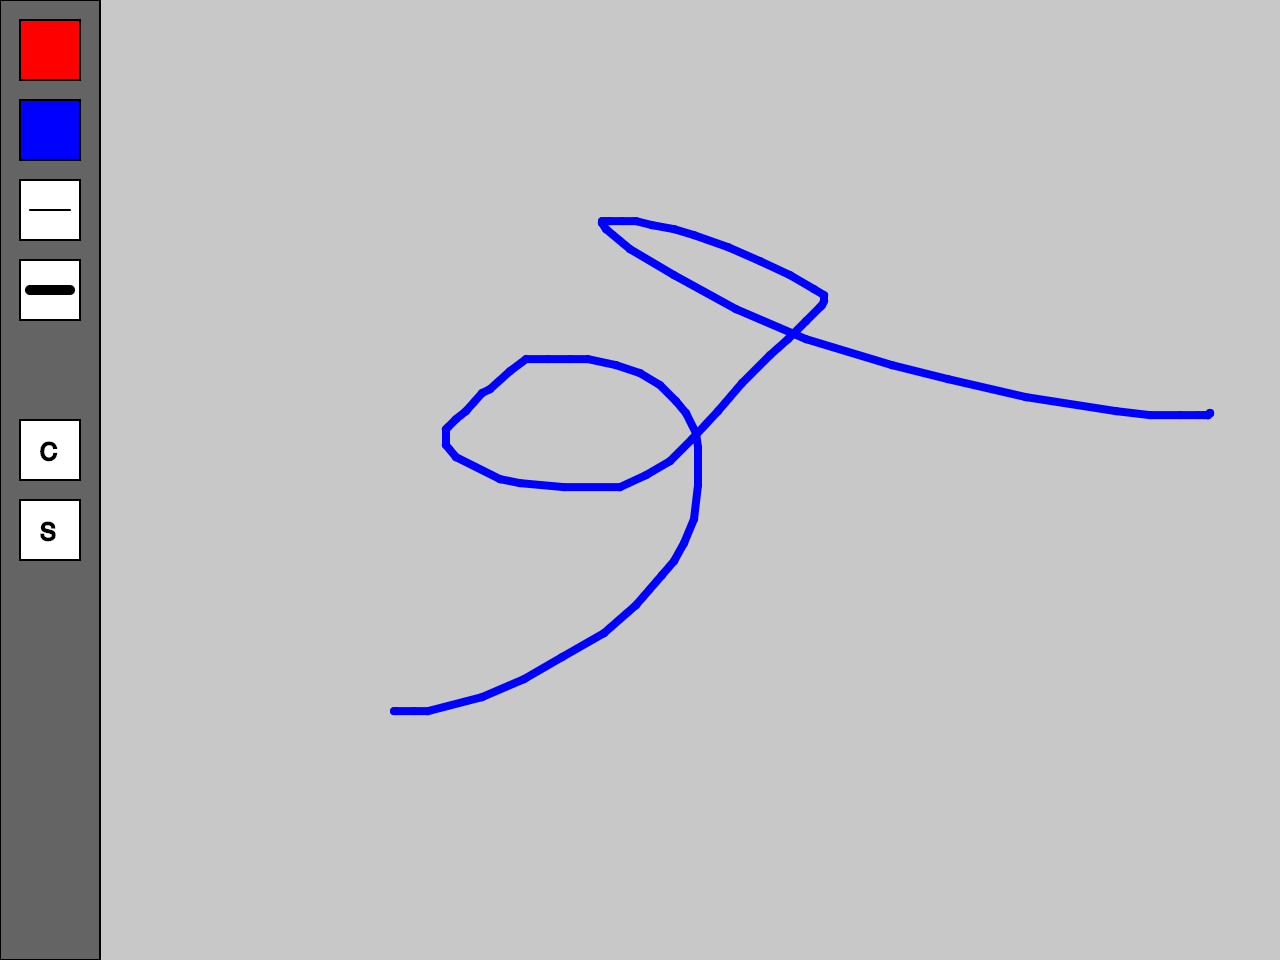
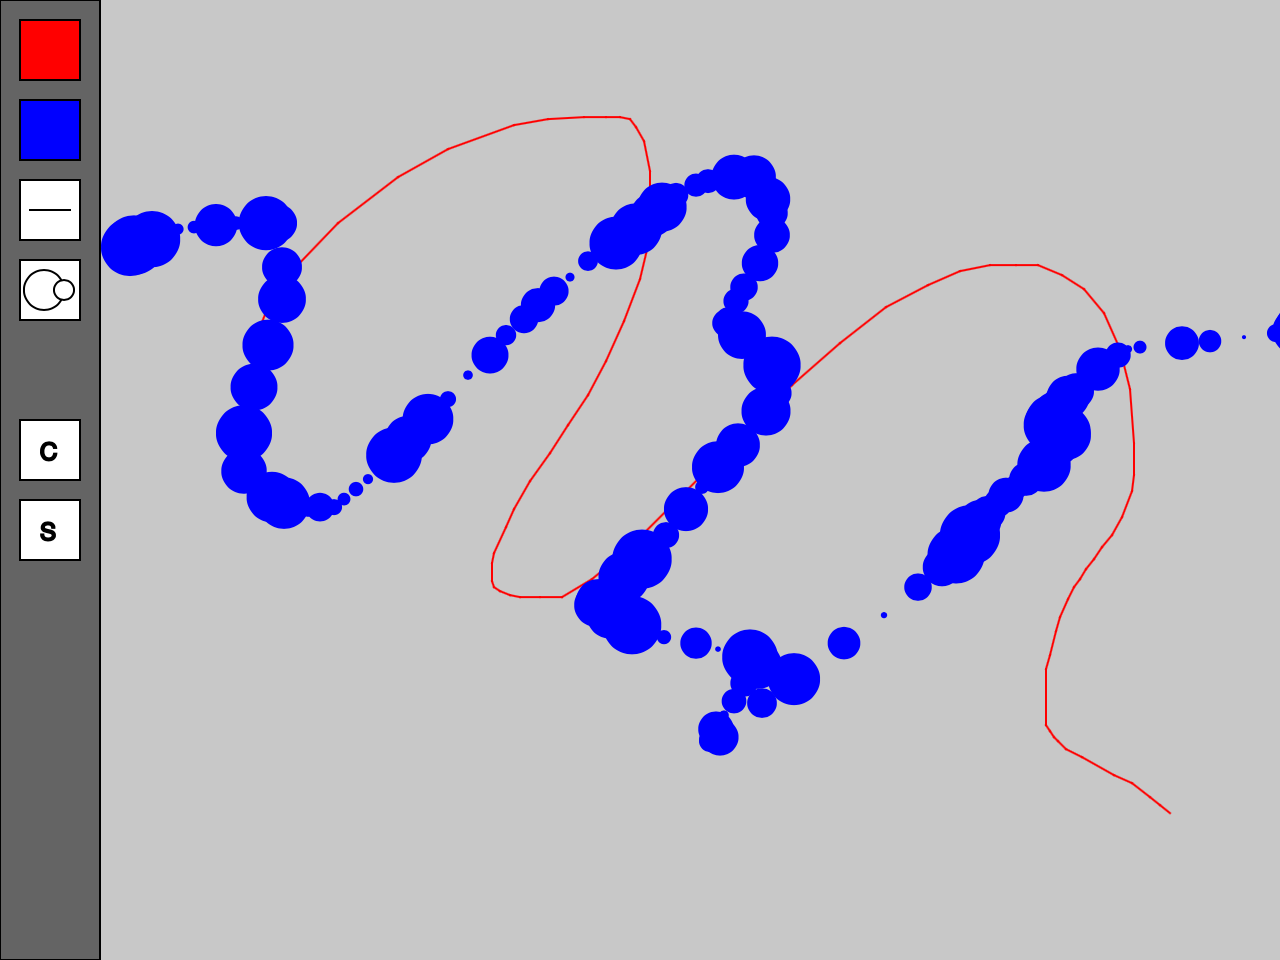
assignment updates

diff --git a/grading.py b/grading.py
@@ -47,7 +47,7 @@ except Exception as e:
 assignments = [assignment.replace('-', '_') for assignment in student['assignments'].values()]
 assignments = [list(eval(assignment)) for assignment in assignments]
 assignment_grade = sum(sum(assignments, [])) / (len(assignments) * 2 * 100)
-print(f"This sketch: {assignments[-1][0]} concept / {assignments[-1][0]} craft")
+print(f"This sketch: {assignments[-1][0]} concept / {assignments[-1][1]} craft")
 print(f"Sketches to date: {(assignment_grade * 100)}")
 
 
@@ -72,8 +72,8 @@ if 'absences' in student and student['absences'] is not None:
 if 'distractions' in student and student['distractions'] is not None:
     absence_factor += student['distractions'] * 0.0125
 absence_factor = min(absence_factor, .1)
-print(f"Absences and lateness/distractions: {absence_factor * 100}")
+print(f"Absences and lateness/distractions: -{absence_factor * 100}")
 final_grade = raw_grade - absence_factor
 final_grade *= 100
 
-print(f"Course: {final_grade}")
+print(f"Course to date: {final_grade}")

diff --git a/assignments/05_expressive_interface/description.md b/assignments/05_expressive_interface/description.md
@@ -1,8 +1,11 @@
 # Sketch #5: Expressive Interface
 
-When we interact with a computer, we do so through a software interface. The files and folders of the operating system, the prompt of a text-based terminal, the links of a webpage, and the tool palette and working space of a graphics program—in all of these examples, input from the keyboard and mouse are translated into meaningful actions. Designing an interface is a creative act unto itself, and as artists, we can use code to make the tools that we need to express our ideas.
+When we interact with a computer, we do so through a software interface. The files and folders of the operating system, the prompt of a text-based terminal, the links of a webpage, and the tool palette and working space of a graphics program—in all of these examples, input from the keyboard and mouse are translated into meaningful actions. Though we take many interfaces for granted, interfaces reflect the biases of those who made them. Furthermore, designing an interface is a creative act unto itself, and one that is central to digital media artists who use code to build their own tools.
 
-For this sketch, you will create a software drawing interface using p5. To get started, think about programs like [MacPaint](https://en.wikipedia.org/wiki/MacPaint), where the "user" can choose from multiple brushes with the mouse and use them to draw on the open canvas. However, your approach should reflect your own artist concept: maybe your interface is designed to paint trees, or looks like the cockpit of a spacecraft, or is made for people who are colorblind, to name some examples. How your brushes work and how someone using your interface selects them will be important artistic choices for you to make.
+For this sketch, you will create a software painting interface using p5. To get started, think about programs like [MacPaint](https://en.wikipedia.org/wiki/MacPaint), where the "user" can choose from multiple brushes with the mouse and use them to draw on the open canvas. However, your approach should reflect your own artistic theme. For example:
+    - an interface with a [street-art aesthetic](https://www.google.com/search?q=graffiti) and spray-paint brushes
+    - an interface from the "[future](https://www.google.com/search?q=future+interface)"    
+    - an interface for someone who is [color blind](https://en.wikipedia.org/wiki/Color_blindness), a [bird](https://en.wikipedia.org/wiki/Bird_vision#Light_perception), [underwater](http://thedivingblog.com/colors-underwater/) or who otherwise sees the world in ways not typically accounted for in interfaces
 
 Requirements:
 - Your interface must include at least 5 different "brushes" / ways of interacting
@@ -106,28 +109,36 @@ function mouseClicked() {
 The following `draw()` and `mouseClicked()` functions work together to make a basic interface:
 
 ```js
+// declare a variable to keep track of what brush we're using and it's color
+let brush
+let brush_color
 
-// declare a variable to keep track of what brush we're using
-let brush = "red_brush"
+function setup() {
 
-// declare a variable to keep track of the strokeWeight
-let current_stroke = 1
+    createCanvas(640, 480).parent('p5')
+    background(200)
+
+    // set default values here
+    brush = "pencil"
+    brush_color = color(255, 0, 0)  // set the initial brush color here
+
+}
 
 function draw() {
 
     if (mouseIsPressed) {
         cursor(CROSS)   // change the cursor to a cross while drawing
 
-        if (brush == "red_brush") {
-            stroke(255, 0, 0)
-            strokeWeight(current_stroke)
+        if (brush == "pencil") {
+            stroke(brush_color)
+            strokeWeight(1)
             line(pmouseX, pmouseY, mouseX, mouseY) // draw a line from the previous mouse position to the current mouse position
         }
 
-        if (brush == "blue_brush") {
-            stroke(0, 0, 255)
-            strokeWeight(current_stroke)
-            line(pmouseX, pmouseY, mouseX, mouseY)
+        if (brush == "dribbles") {
+            fill(brush_color)
+            noStroke()
+            circle(mouseX, mouseY, random(2, 30))
         }
 
     } else {
@@ -149,15 +160,15 @@ function draw() {
     fill(0, 0, 255)
     rect(10, 50, 30, 30)
 
-    // make an decrease strokeWeight button
+    // make the "pencil" button
     fill(255)
     rect(10, 90, 30, 30)
     line(15, 105, 35, 105)
 
-    // make an increase strokeWeight button
+    // make the "dribbles" button
     rect(10, 130, 30, 30)
-    strokeWeight(5)
-    line(15, 145, 35, 145)
+    circle(22, 145, 20)
+    circle(32, 145, 10)
 
     // make a clear button
     strokeWeight(1)
@@ -180,28 +191,26 @@ function mouseClicked() {
 
     // check if the mouse click was within the "red" button
     if (mouseX > 10 && mouseX < 40 && mouseY > 10 && mouseY < 40) {
-        print("Clicked red brush")
-        brush = "red_brush"
+        print("Clicked red button")
+        brush_color = color(255, 0, 0)
     }
 
     // check if the mouse click was within the "blue" button
     if (mouseX > 10 && mouseX < 40 && mouseY > 50 && mouseY < 90) {
-        print("Clicked blue brush")
-        brush = "blue_brush"
+        print("Clicked blue button")
+        brush_color = color(0, 0, 255)
     }
 
-    // check if mouse clicked in "strokeWeight decrease" box
+    // check if mouse clicked in "pencil" box
     if (mouseX > 10 && mouseX < 40 && mouseY > 90 && mouseY < 130) {
-        print("Clicked stroke decrease")
-        if (current_stroke > 1) {
-            current_stroke -= 1
-        }
+        print("Clicked pencil button")
+        brush = "pencil"
     }
 
-    // check if mouse clicked in "strokeWeight increase" box
+    // check if mouse clicked in the "crazytown" box
     if (mouseX > 10 && mouseX < 40 && mouseY > 130 && mouseY < 160) {
-        print("Clicked stroke increase")
-        current_stroke += 1
+        print("Clicked dribbles button")
+        brush = "dribbles"
     }
 
     // check if mouse clicked in "clear" box
@@ -215,6 +224,7 @@ function mouseClicked() {
     }
 
 }
+
 ```
 
 ![](interface_example.png)

diff --git a/assignments/04_coordinate_landscape/description.md b/assignments/04_coordinate_landscape/description.md
@@ -2,11 +2,11 @@
 
 For a painter, placing a mark on a canvas is a physical gesture—you simply touch the surface where you want the mark to be. With digital media, however, the concept of "space" is represented through symbolic coordinate systems. For example, a 2-dimensional canvas is typically understood with two numbers—an X-coordinate and a Y-coordinate—that correspond to _pixels_ (**pi** cture-**el** ements) on the screen. "Color space" can also be represented with coordinates, one each for the red, green, and blue components.
 
-In this sketch, you will become familiar with drawing using coordinates. To explore the relationship of digital "space" to traditional depictions of the world, you will choose a [famous landscape painting from art history](https://www.google.com/search?q=famous+landscape+painting) and reinterpret it in code. This will require abstracting the original brushstrokes into geometric shapes while retaining a recognizable sense of the original composition. Pay particular attention to your use of color. The choices you make in your digital re-interpretation should communicate something distinct from the original painting.
+In this sketch, you will become familiar with drawing using coordinates. To explore the relationship of digital "space" to traditional depictions of the world, you will choose a [famous landscape painting from art history](https://www.google.com/search?q=famous+landscape+painting) and reinterpret it in code. _Reinterpret_ means that you do not necessarily have to try and reproduce the painting exactly—rather, you must choose how to work with code in a way that retains a sense of the original composition but which expresses something new. Pay particular attention to your use of color.
 
 Requirements:
 - Your piece should be presented on a webpage next to an image of the original artwork
-- You must include your title and [3-sentence description](../../resources/description_guidelines.md) on your webpage
+- On your webpage, you must include your title, the artist and year of the original painting, and a [3-sentence description](../../resources/description_guidelines.md) that explains the choices you made in your reinterpretation
 - This page should be hosted on GitHub—email a working URL to the professor before class
 
 

diff --git a/class_plans/6b.md b/class_plans/6b.md
@@ -7,25 +7,26 @@ next wednesday, a week from today, we will check in
 
 need an artwork that you make!
 
-
 ## code
 
-make buttons with comparisons
-(recreate the example)
-
+detect if we clicked in the button
+variable for brush type
 width and height
 
-/
-
-the cursor function
-the save function
+_use an example with one brush in mouseIsPressed, then add the variable to make another_
 
 /
 
-make a random brush example
+_explain random_
+Metaphor of a paint brush—how the hairs move are _unpredictable_, so we simulate that with random
+
+
+_make a random brush example_
 
 /
 
 
-future classes:
-    map function
+
+## Homework
+
+reading on variables

diff --git a/next.md b/next.md
@@ -17,12 +17,14 @@ personal homepage:
 - include nonlinear narrative somehow? (that would mean a server)
 - maybe grade it at the end of the semester?
 
+- all code can be subdirectories, dont have to do separate repositories
+
 coordinate landscape:
 - show 3D?
 
 expressive interface:
 - don't demonstrate keyboard, they can find that if they want it
-
+- use `brush = 1`, not names
 
 
 /

diff --git a/class_plans/7a.md b/class_plans/7a.md
@@ -1,4 +1,11 @@
 
+
+show how the landscape assignment works together
+
+remember layers
+
 need stuff posted online for wednesday
 
 map function?
+
+width and height
